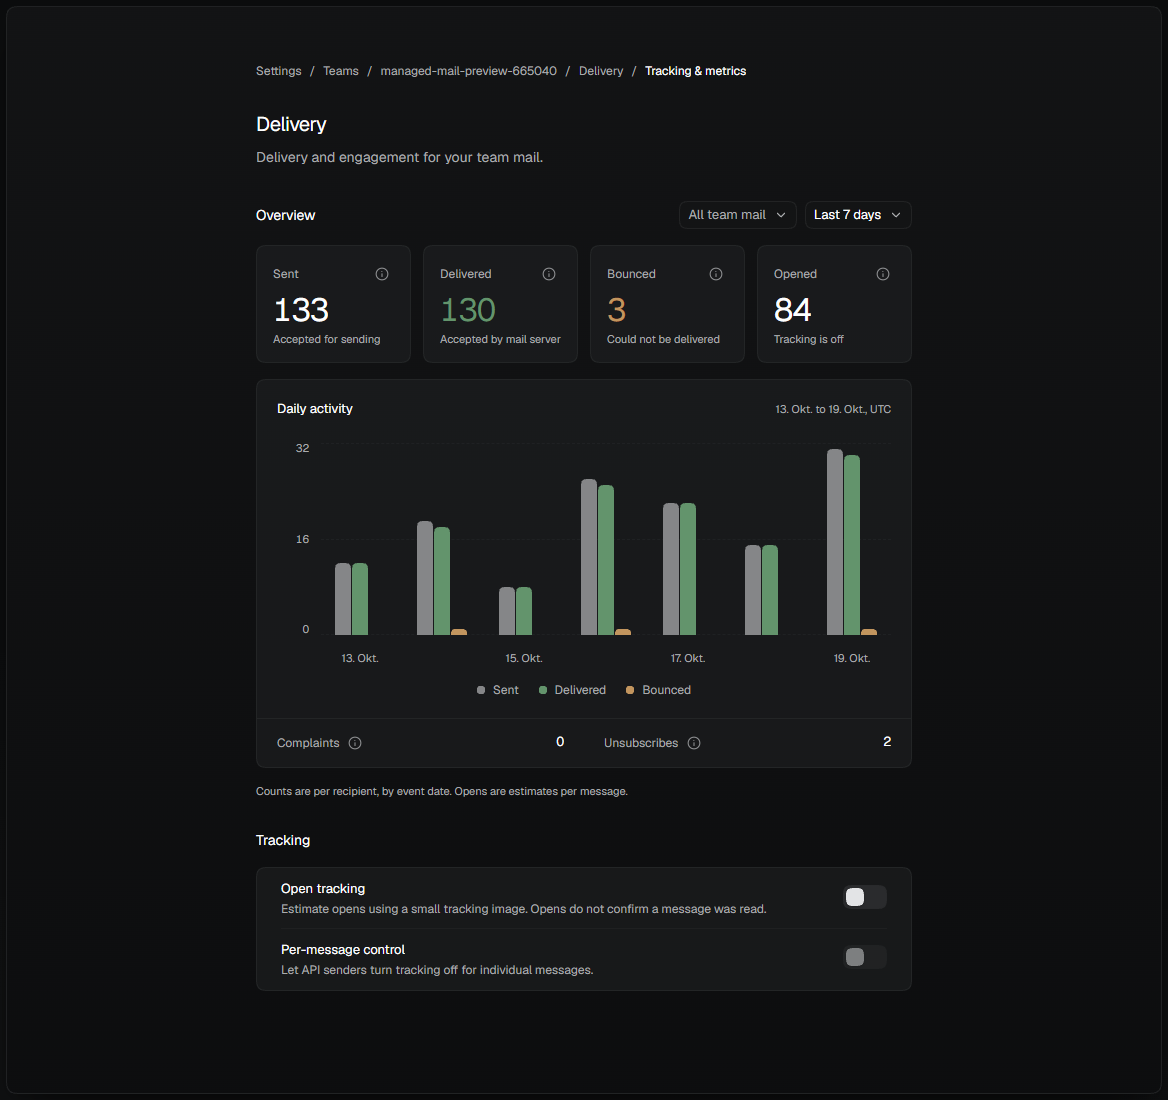
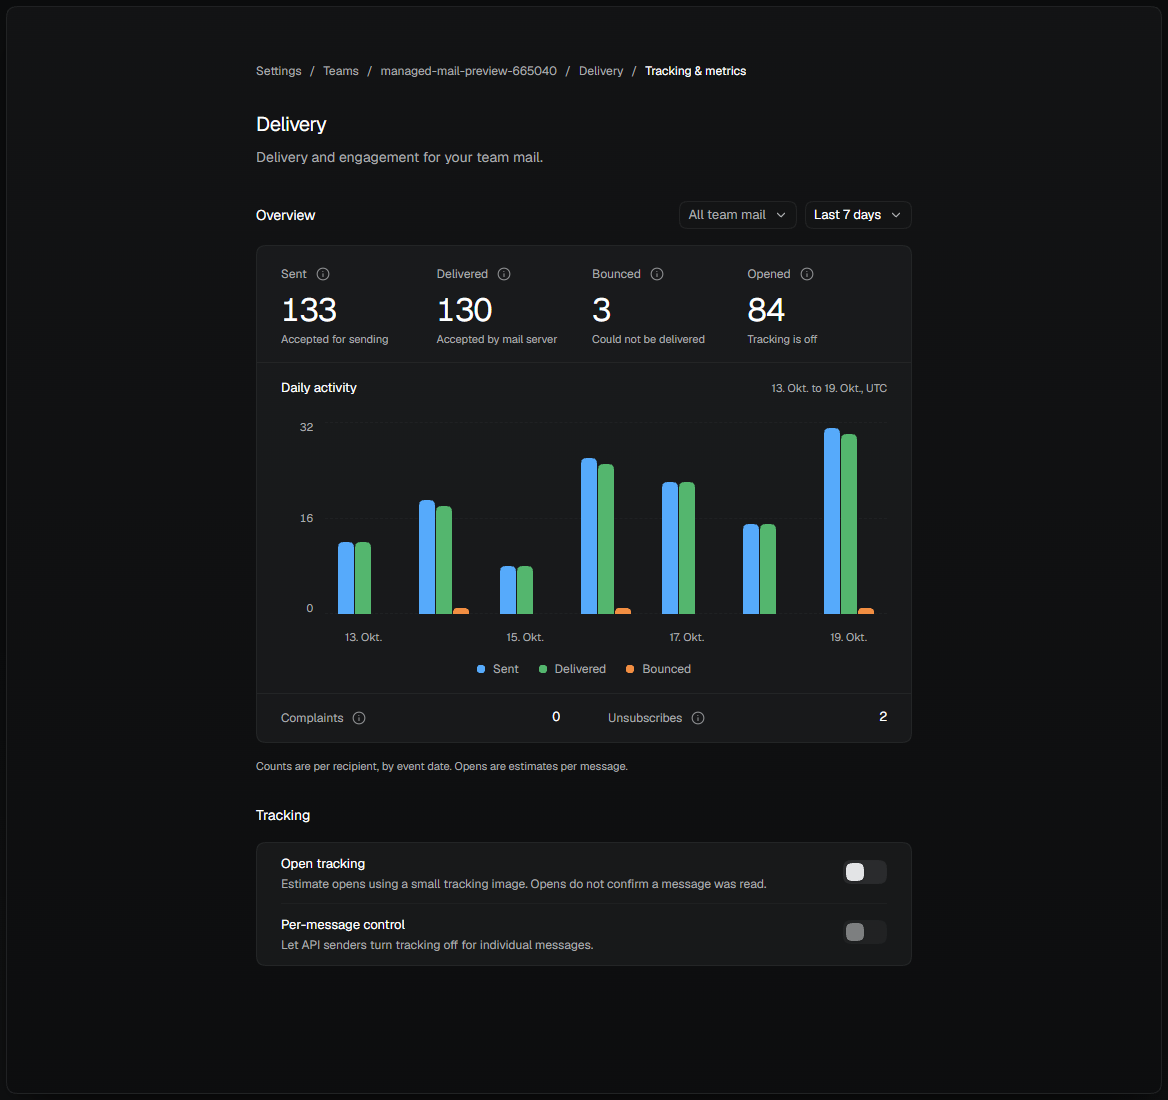
refactor(settings): consolidate the delivery overview

diff --git a/apps/web/src/features/settings/components/organization-settings/mail-delivery-metrics.tsx b/apps/web/src/features/settings/components/organization-settings/mail-delivery-metrics.tsx
@@ -4,7 +4,6 @@ import { InformationCircleIcon } from "@hugeicons/core-free-icons";
 import { HugeiconsIcon } from "@hugeicons/react";
 import { BarChart } from "@quieter/ui/bar-chart";
 import { Button } from "@quieter/ui/button";
-import { cn } from "@quieter/ui/cn";
 import { Separator } from "@quieter/ui/separator";
 import { Tooltip, TooltipContent, TooltipTrigger } from "@quieter/ui/tooltip";
 
@@ -14,9 +13,9 @@ import { SettingsCard } from "../settings-layout";
 import type { MailDeliveryMetricsRange } from "./mail-delivery";
 
 const deliverySeries = [
-  { color: "var(--chart-3)", key: "sent", label: "Sent" },
-  { color: "var(--success)", key: "delivered", label: "Delivered" },
-  { color: "var(--warning)", key: "bounced", label: "Bounced" },
+  { color: "var(--q-blue)", key: "sent", label: "Sent" },
+  { color: "var(--q-green)", key: "delivered", label: "Delivered" },
+  { color: "var(--q-orange)", key: "bounced", label: "Bounced" },
 ];
 
 export const MailDeliveryMetrics = ({
@@ -91,47 +90,39 @@ export const MailDeliveryMetrics = ({
 
   return (
     <div className="flex flex-col gap-4">
-      <dl className="grid grid-cols-2 gap-3 @lg:grid-cols-4">
-        {stats.map((stat) => (
-          <SettingsCard className="flex flex-col gap-2 p-4" key={stat.label}>
-            <dt className="flex items-center justify-between gap-1 text-caption text-muted-fg">
-              {stat.label}
-              <Tooltip>
-                <TooltipTrigger
-                  render={
-                    <Button
-                      aria-label={`About ${stat.label.toLowerCase()}`}
-                      size="icon-xs"
-                      variant="ghost"
-                    />
-                  }
-                >
-                  <HugeiconsIcon icon={InformationCircleIcon} />
-                </TooltipTrigger>
-                <TooltipContent>{stat.hint}</TooltipContent>
-              </Tooltip>
-            </dt>
-            <dd className="flex flex-col gap-1.5">
-              <span
-                className={cn(
-                  "text-title-lg leading-none tracking-tight tabular-nums",
-                  {
-                    "text-success":
-                      stat.label === "Delivered" && stat.value > 0,
-                    "text-warning": stat.label === "Bounced" && stat.value > 0,
-                  }
-                )}
-              >
-                {stat.value.toLocaleString()}
-              </span>
-              <span className="text-micro text-muted-fg">{stat.note}</span>
-            </dd>
-          </SettingsCard>
-        ))}
-      </dl>
-
       <SettingsCard>
-        <div className="flex flex-col gap-6 p-4 @md:p-5">
+        <dl className="grid grid-cols-2 gap-x-4 gap-y-5 px-4 py-4 @md:px-6 @lg:grid-cols-4">
+          {stats.map((stat) => (
+            <div className="flex min-w-0 flex-col gap-2" key={stat.label}>
+              <dt className="flex items-center gap-1 text-caption text-muted-fg">
+                {stat.label}
+                <Tooltip>
+                  <TooltipTrigger
+                    render={
+                      <Button
+                        aria-label={`About ${stat.label.toLowerCase()}`}
+                        size="icon-xs"
+                        variant="ghost"
+                      />
+                    }
+                  >
+                    <HugeiconsIcon icon={InformationCircleIcon} />
+                  </TooltipTrigger>
+                  <TooltipContent>{stat.hint}</TooltipContent>
+                </Tooltip>
+              </dt>
+              <dd className="flex flex-col gap-1.5">
+                <span className="text-title-lg leading-none tracking-tight text-fg tabular-nums">
+                  {stat.value.toLocaleString()}
+                </span>
+                <span className="text-micro text-muted-fg">{stat.note}</span>
+              </dd>
+            </div>
+          ))}
+        </dl>
+
+        <Separator />
+        <div className="flex flex-col gap-6 px-4 py-4 @md:px-6">
           <div className="flex flex-wrap items-baseline justify-between gap-2">
             <h2 className="text-body-sm text-fg">Daily activity</h2>
             <span className="text-micro text-muted-fg">
@@ -159,7 +150,7 @@ export const MailDeliveryMetrics = ({
             },
           ].map((stat) => (
             <div
-              className="flex items-center gap-2 px-4 py-3 @md:px-5"
+              className="flex items-center gap-2 px-4 py-3 @md:px-6"
               key={stat.label}
             >
               <dt className="flex items-center gap-1 text-caption text-muted-fg">
